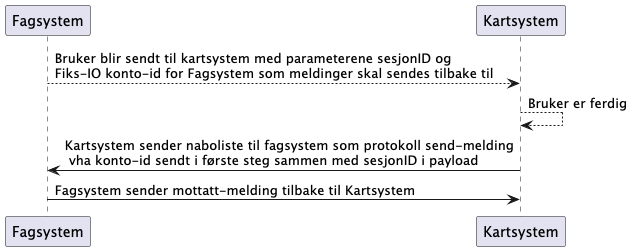
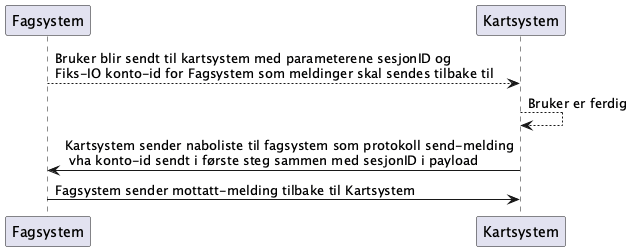
Revidert versjon uten link2

diff --git a/README.md b/README.md
@@ -20,75 +20,124 @@ _UNDER ARBEID_
 
 Dette er utkast og under arbeid.
 
+### Sekvensdiagram
+#### GI Link - dialog mellom fagsystem og kartystem
+
+Slik dialogen var i GI Link for tjenesten _hent naboliste_ og resten av tjenestene.
+Kartsystemet sender bruker tilbake til angitt url i link2 parameter og venter på hent naboliste request før den returnerer resultat.
+
+![](Dokumentasjon/V1/SequenceDiagram/GILink/hent-naboliste.png)
+
+#### Fiks Link - dialog mellom fagsystem og kartystem
+
+Slik vi ser for oss at dialogen blir i nye Fiks Link for tjenesten _lag naboliste_ og resten av tjenestene. 
+Den store forskjellen er at linken (url med parametere) kartsystemet støtter ikke tar inn en link2 url som parameter, og i stedet sender melding tilbake med en gang til fagsystem med resultat.
+
+![](Dokumentasjon/V1/SequenceDiagram/FiksLink/hent-naboliste.png)
+
+
 ### Linker
-Foreløpig henviser vi til GI Link dokumentasjonen. Mer informasjon kommer her etter hvert.
-Men burde vi modernisert spesifikasjonen av lenkene til f.eks. en OpenAPI Spec?
 
-Link-tjenestene er tjenestene som enten viser noe eller som faktisk produserer noe i systemet slik at det etterpå kan hentes ved hjelp av en "hent-melding".
+Link-tjenestene er tjenestene som enten viser noe eller som faktisk produserer noe i systemet.
+Så vil karttjenesten levere resultatet til fagsystemet når bruker er ferdig.
 
-Link-tjenestene er som følger fra gammel standard:
+#### LagNaboliste - send naboliste
 
-#### LagNaboliste - hent naboliste
-Lager en naboliste som så kan hentes vha `no.ks.fiks.link.v1.innsyn.naboliste.hent` melding.
+Tjenesten gjør at brukeren kan etablere en liste over naboer for en gitt eiendom og returnere listen tilbake til opprinnelige system vha `no.ks.fiks.link.v1.innsyn.naboliste.send` melding.
 
-Funksjon som aktiverer et annet system slik at brukeren kan etablere en liste over naboer for en gitt eiendom og returnere listen til sitt opprinnelige system.
-
-System A (f.eks. sakssystemet) benytter funksjonen ved å kalle system B (vanligvis GIS) ved å benytte LINK. GIS-systemet åpnes med aktuelle eiendom i kartbildet og med forslag til naboer. Brukeren får kontroll i GIS-systemets funksjonalitet og bestemmer interaktivt hvilke eiendommer som skal inngå i listen. GIS-systemet lager listen og lagrer den lokalt i GIS-systemet. Etter at Sakssystemet får tilbake kontrollen (returadresse oppgitt ved LINK2), kan nabolisten hentes ved meldingen HentNaboliste
+System A (f.eks. sakssystemet) benytter funksjonen ved å kalle system B (vanligvis GIS) ved å benytte LINK. GIS-systemet åpnes med aktuelle eiendom i kartbildet og med forslag til naboer. Brukeren får kontroll i GIS-systemets funksjonalitet og bestemmer interaktivt hvilke eiendommer som skal inngå i listen. GIS-systemet lager listen og sendes resultatet tilbake ved meldingen SendNaboliste til angitt `kontoID`.
 
 En kan benytte alle Vis-funksjoner for å zoome inn i kartet
 
-Man kan velge om man ønsker tilbake `Eier` og `Adresser` i resultatet med parameter i LINK adressen.
+##### Url - med eksempel
+Parameterene sesjonID og kontoID er nødvendige for å vise hvilken sesjon data tilhører og hvilken konto melding skal sendes tilbake til. SesjonID legges til i meldingen som GIS-systemet sender tilbake.
 
-Eksempel på LINK:
+http://www.system.no/side.html?funksjon=VisEiendom&kommunenummer=0123&gaardsnummer=1&bruksnummer=2&festenummer=0&seksjonsnummer=1&hint=LagNaboliste&sesjonID=A12345678901&kontoID=A12345678901&inkluderEiere=false&inkluderAdresse=false
 
-http://www.system.no/side.html?funksjon=VisEiendom&kommunenummer=0123&gaardsnummer=1&bruksnummer=2&festenummer=0&seksjonsnummer=1&hint=LagNaboliste&sesjon=A12345678901&link2=http://www.systemB.no/naboliste.html?sesjon=A12345678901
+**Parametere:**
+- funksjon = VisEiendom
+- kommunenummer
+- gaardsnummer
+- bruksnummer
+- festenummer
+- seksjonsnummer
+- hint = LagNaboliste
+- sesjonID
+- kontoID
+- inkluderEiere -> inkluder eiere i melding tilbake fra kartsystem
+- inkluderAdresse -> inkluder adresser i melding tilbake fra kartsystem 
 
 
-
-#### LagKartutsnitt - hent kartutsnitt
-Lager et kartutsnitt som så kan hentes vha `no.ks.fiks.link.v1.innsyn.kartutsnitt.hent` melding. Kartutsnittet kommer i form av et dokument.
+#### LagKartutsnitt - send kartutsnitt
+Lager et kartutsnitt som så kartsystemet sender vha `no.ks.fiks.link.v1.innsyn.kartutsnitt.send` melding. Kartutsnittet kommer i form av et dokument.
 
 Funksjon som aktiverer et annet system slik at brukeren kan få et kartsnitt rundt en gitt eiendom og returnere kartet som et dokument til sitt opprinnelige system.
 
-System A (f.eks. SAK-systemet) benytter funksjonen ved å kommunisere med system B (vanligvis GIS).  GIS-systemet startes som LINK med parametrene som identifiserer aktuelle eiendom. Brukeren får kontroll i GIS-systemets funksjonalitet og bestemmer interaktivt kartutsnittets størrelse. GIS-systemet lager kartet og lagrer det lokalt i GIS-systemet. Etter at Sakssystemet får tilbake kontrollen (returadresse oppgitt ved LINK2), kan kartet hentes ved en melding (HentKartutsnitt)
+System A (f.eks. SAK-systemet) benytter funksjonen ved å kommunisere med system B (vanligvis GIS).  GIS-systemet startes som LINK med parametrene som identifiserer aktuelle eiendom. Brukeren får kontroll i GIS-systemets funksjonalitet og bestemmer interaktivt kartutsnittets størrelse. GIS-systemet lager kartet og sender det tilbake til angitt `kontoID`.
 
 En kan benytte alle Vis-funksjoner for å zoome inn i kartet
 
-Eksempel på LINK
+##### Url - med eksempel
 
-http://www.system.no/side.html?funksjon=VisPlan&kommunenummer=0123&planidentifikasjon=R0118AP&hint=LagKartutsnitt&sesjon=A12345678901&link2=http://www.systemB.no/kart.html?sesjon=A12345678901
+http://www.system.no/side.html?funksjon=VisPlan&kommunenummer=0123&planidentifikasjon=R0118AP&hint=LagKartutsnitt&sesjonID=A12345678901&kontoID=123243245
 
-#### LagPunkt - hent posisjon
-Lager et punkt (`posisjon`) som så kan hentes vha `no.ks.fiks.link.v1.innsyn.posisjon.hent` melding.
+**Parametere:**
+- funksjon = VisPlan
+- kommunenummer
+- planidentifikasjon
+- hint = LagKartutsnitt
+- sesjonID
+- kontoID
+
+#### LagPunkt - send posisjon
+Lager et punkt (`posisjon`) som så sendes vha `no.ks.fiks.link.v1.innsyn.posisjon.send` melding.
+
 Vi har valgt å bruke det mer korrekte begrepet `posisjon` for datatypen som også brukes i andre protokoller.
 
+Funksjon som aktiverer et GIS system slik at brukeren kan registrere en koordinat i kartbildet og kartsystemet returnerer et punktobjekt i melding til angitt `kontoID`
 
-Funksjon som aktiverer et GIS system slik at brukeren kan registrere en koordinat i kartbildet og returnere et punktobjekt til sitt opprinnelige system.
-
-System A (f.eks. SAK-systemet) benytter funksjonen ved å kommunisere med system B (vanligvis GIS).  GIS-systemet overtar kontroll gjennom en LINK og brukeren angir et punkt i GIS systemet interaktivt. GIS-systemet lager koordinat lokalt i GIS-systemet. Etter at Sakssystemet får tilbake kontrollen (returadresse oppgitt ved LINK2), kan punktet hentes ved en melding (HentPunkt)
+System A (f.eks. SAK-systemet) benytter funksjonen ved å kommunisere med system B (vanligvis GIS).  GIS-systemet overtar kontroll gjennom en LINK og brukeren angir et punkt i GIS systemet interaktivt. GIS-systemet lager koordinat lokalt og sender tilbake til angitt `kontoID`. 
 
 En kan benytte alle Vis-funksjoner for å zoome inn i kartet
 
-Eksempel på LINK
+##### Url - med eksempel
 
-http://www.system.no/side.html?funksjon=VisAdresse&kommunenummer=0123& adressenavn=Storgata&nummer=2&bokstav=A&hint=LagPunkt&sesjon=A12345678901&link2=http://www.systemB.no/punkt.html?sesjon=A12345678901
+http://www.system.no/side.html?funksjon=VisAdresse&kommunenummer=0123&adressenavn=Storgata&nummer=2&bokstav=A&hint=LagPunkt&sesjonID=A12345678901&kontoID=123145145
 
+**Parametere:**
+- funksjon = VisAdresse
+- kommunenummer
+- adressenavn
+- nummer
+- bokstav
+- hint = LagPunkt
+- sesjonID
+- kontoID
 
-#### LagOmraade - hent flate
-Lager et omraade (`flate`) som så kan hentes vha `no.ks.fiks.link.v1.innsyn.flate.hent` melding. 
+#### LagOmraade - send flate
+Lager et omraade (`flate`) som så sendes tilbake vha `no.ks.fiks.link.v1.innsyn.flate.send` melding. 
 Vi har valgt å bruke det mer korrekte begrepet `flate` for datatypen som også brukes i andre protokoller.
 
 Funksjon som aktiverer et GIS system slik at brukeren kan registrere et område i kartbildet og returnere et områdeobjekt til sitt opprinnelige system.
 
-System A (f.eks. SAK-systemet) benytter funksjonen ved å kommunisere med system B (vanligvis GIS).  GIS-systemet overtar kontroll gjennom en LINK og brukeren angir et område i GIS systemet interaktivt. GIS-systemet lager koordinater lokalt i GIS-systemet. Etter at Sakssystemet får tilbake kontrollen (returadresse oppgitt ved LINK2), kan området hentes ved en melding (HentOmraade)
+System A (f.eks. SAK-systemet) benytter funksjonen ved å kommunisere med system B (vanligvis GIS).  GIS-systemet overtar kontroll gjennom en LINK og brukeren angir et område i GIS systemet interaktivt. GIS-systemet lager koordinater og sender tilbake til angitt `kontoID`.
 
 En kan benytte alle Vis-funksjoner for å zoome inn i kartet
 
-Eksempel på LINK
+##### Url - med eksempel
 
-http://www.system.no/side.html?funksjon=VisEiendom&kommunenummer=0123&gaardsnummer=1&bruksnummer=2&festenummer=0&seksjonsnummer=1&hint=LagOmraade&sesjon=A12345678901&link2=http://www.systemB.no/omraade.html?sesjon=A12345678901
-Operation
+http://www.system.no/side.html?funksjon=VisEiendom&kommunenummer=0123&gaardsnummer=1&bruksnummer=2&festenummer=0&seksjonsnummer=1&hint=LagOmraade&sesjonID=A12345678901&kontoID=123124124
 
+**Parametere:**
+- funksjon = VisEiendom
+- kommunenummer
+- gaardsnummer
+- bruksnummer
+- festenummer
+- seksjonsnummer
+- hint = LagOmraade
+- sesjonID
+- kontoID
 
 ### Meldingstyper og skjema
 
@@ -96,15 +145,10 @@ Json schemas er forsøkt modellert etter UML diagrammer fra GI Link, men med end
 
 #### Meldingstyper / json schemas
 
-- `no.ks.fiks.link.v1.innsyn.kartutsnitt.hent.schema.json`
-- `no.ks.fiks.link.v1.innsyn.kartutsnitt.hent.resultat.schema.json` - Droppet dokument som navn og refererer til LagKartutsnitt funksjonen
-- `no.ks.fiks.link.v1.innsyn.naboliste.hent.schema.json` 
-- `no.ks.fiks.link.v1.innsyn.naboliste.hent.resultat.schema.json` - Endringer i struktur / feltnavn fra GI Link****
-- `no.ks.fiks.link.v1.innsyn.flate.hent.schema.json`
-- `no.ks.fiks.link.v1.innsyn.flate.hent.resultat.schema.json` - Returner "flate" slik den er definert i Fiks Plan?
-- `no.ks.fiks.link.v1.innsyn.posisjon.hent.schema.json`
-- `no.ks.fiks.link.v1.innsyn.posisjon.hent.resultat.schema.json` - Returnerer "posisjon" slik den er definert i Fiks Plan?
-
+- `no.ks.fiks.link.v1.innsyn.kartutsnitt.send.schema.json`
+- `no.ks.fiks.link.v1.innsyn.naboliste.send.schema.json` 
+- `no.ks.fiks.link.v1.innsyn.flate.send.schema.json`
+- `no.ks.fiks.link.v1.innsyn.posisjon.send.schema.json`
 
 #### Json schemas for datatyper brukt i meldingstypene
 
@@ -118,62 +162,35 @@ Json schemas er forsøkt modellert etter UML diagrammer fra GI Link, men med end
 - `no.ks.fiks.link.v1.felles.matrikkelnummer.schema.json` - Kopiert fra Fiks Plan
 - `no.ks.fiks.link.v1.felles.posisjon.schema.json` - Kopiert fra Fiks Plan
 
-### Hent punkt 
+### Send posisjon - resultat av LagPunkt
 
-**Skjema for meldingstypene:**
-- [`no.ks.fiks.link.v1.innsyn.posisjon.hent.schema.json`](Schema/V1/no.ks.fiks.link.v1.innsyn.posisjon.hent.schema.json)
-- [`no.ks.fiks.link.v1.innsyn.punkt.hent.resultat.schema.json`](Schema/V1/no.ks.fiks.link.v1.innsyn.posisjon.hent.resultat.schema.json)
+**Skjema for meldingstype:**
+- [`no.ks.fiks.link.v1.innsyn.posisjon.send.schema.json`](Schema/V1/no.ks.fiks.link.v1.innsyn.posisjon.send.schema.json)
 
-##### Resultat
+![](Dokumentasjon/V1/ClassDiagrams/no.ks.fiks.link.v1.innsyn.posisjon.send/class-diagram.png)
 
-Datastruktur i json-schemas. UML fra GI Link ble brukt som utgangspunkt.
+### Send naboliste - resultat av LagNaboliste
 
-![](Dokumentasjon/V1/ClassDiagrams/no.ks.fiks.link.v1.innsyn.posisjon.hent.resultat/class-diagram.png)
+- [`no.ks.fiks.link.v1.innsyn.naboliste.send.schema.json`](Schema/V1/no.ks.fiks.link.v1.innsyn.naboliste.send.schema.json)
 
-### Hent naboliste
-
-- [`no.ks.fiks.link.v1.innsyn.naboliste.hent.schema.json`](Schema/V1/no.ks.fiks.link.v1.innsyn.naboliste.hent.schema.json)
-- [`no.ks.fiks.link.v1.innsyn.naboliste.hent.resultat.schema.json`](Schema/V1/no.ks.fiks.link.v1.innsyn.naboliste.hent.resultat.schema.json) 
-
-##### Resultat
-
-Datastruktur i json-schemas. UML fra GI Link ble brukt som utgangspunkt.
-
-![](Dokumentasjon/V1/ClassDiagrams/no.ks.fiks.link.v1.innsyn.naboliste.hent.resultat/class-diagram.png)
+![](Dokumentasjon/V1/ClassDiagrams/no.ks.fiks.link.v1.innsyn.naboliste.send/class-diagram.png)
 
 
-### Hent kartutsnitt
+### Send kartutsnitt - resultat av LagKartutsnitt
 
-**Skjema for meldingstypene:**
-- [`no.ks.fiks.link.v1.innsyn.kartutsnitt.hent.schema.json`](Schema/V1/no.ks.fiks.link.v1.innsyn.kartutsnitt.hent.schema.json)
-- [`no.ks.fiks.link.v1.innsyn.kartutsnitt.hent.resultat.json`](Schema/V1/no.ks.fiks.link.v1.innsyn.dokument.hent.resultat.schema.json)
-
-##### Hent 
-
-![](Dokumentasjon/V1/ClassDiagrams/no.ks.fiks.link.v1.innsyn.kartutsnitt.hent/class-diagram.png)
-
-##### Resultat
-
-Viser til fil som kommer med som payload i resultat meldingen
-
-![](Dokumentasjon/V1/ClassDiagrams/no.ks.fiks.link.v1.innsyn.kartutsnitt.hent.resultat/class-diagram.png)
+**Skjema for meldingstype:**
+- [`no.ks.fiks.link.v1.innsyn.kartutsnitt.send.schema.json`](Schema/V1/no.ks.fiks.link.v1.innsyn.kartutsnitt.send.schema.json)
 
 
-### Hent omraade
+![](Dokumentasjon/V1/ClassDiagrams/no.ks.fiks.link.v1.innsyn.kartutsnitt.send/class-diagram.png)
 
-**Skjema for meldingstypene:**
-- [`no.ks.fiks.link.v1.innsyn.flate.hent.schema.json`](Schema/V1/no.ks.fiks.link.v1.innsyn.flate.hent.schema.json)
-- [`no.ks.fiks.link.v1.innsyn.flate.hent.resultat.schema.json`](Schema/V1/no.ks.fiks.link.v1.innsyn.omraade.hent.resultat.schema.json)
 
-##### Hent
+### Send flate - resultat av LagOmraade
 
-![](Dokumentasjon/V1/ClassDiagrams/no.ks.fiks.link.v1.innsyn.flate.hent/class-diagram.png)
+**Skjema for meldingstype:**
+- [`no.ks.fiks.link.v1.innsyn.flate.send.schema.json`](Schema/V1/no.ks.fiks.link.v1.innsyn.flate.send.schema.json)
 
-##### Resultat
-
-Datastruktur i json-schemas. UML fra GI Link ble brukt som utgangspunkt sammen med dokument fra Fiks Arkiv
-
-![](Dokumentasjon/V1/ClassDiagrams/no.ks.fiks.link.v1.innsyn.flate.hent.resultat/class-diagram.png)
+![](Dokumentasjon/V1/ClassDiagrams/no.ks.fiks.link.v1.innsyn.flate.send/class-diagram.png)
 
 
 
